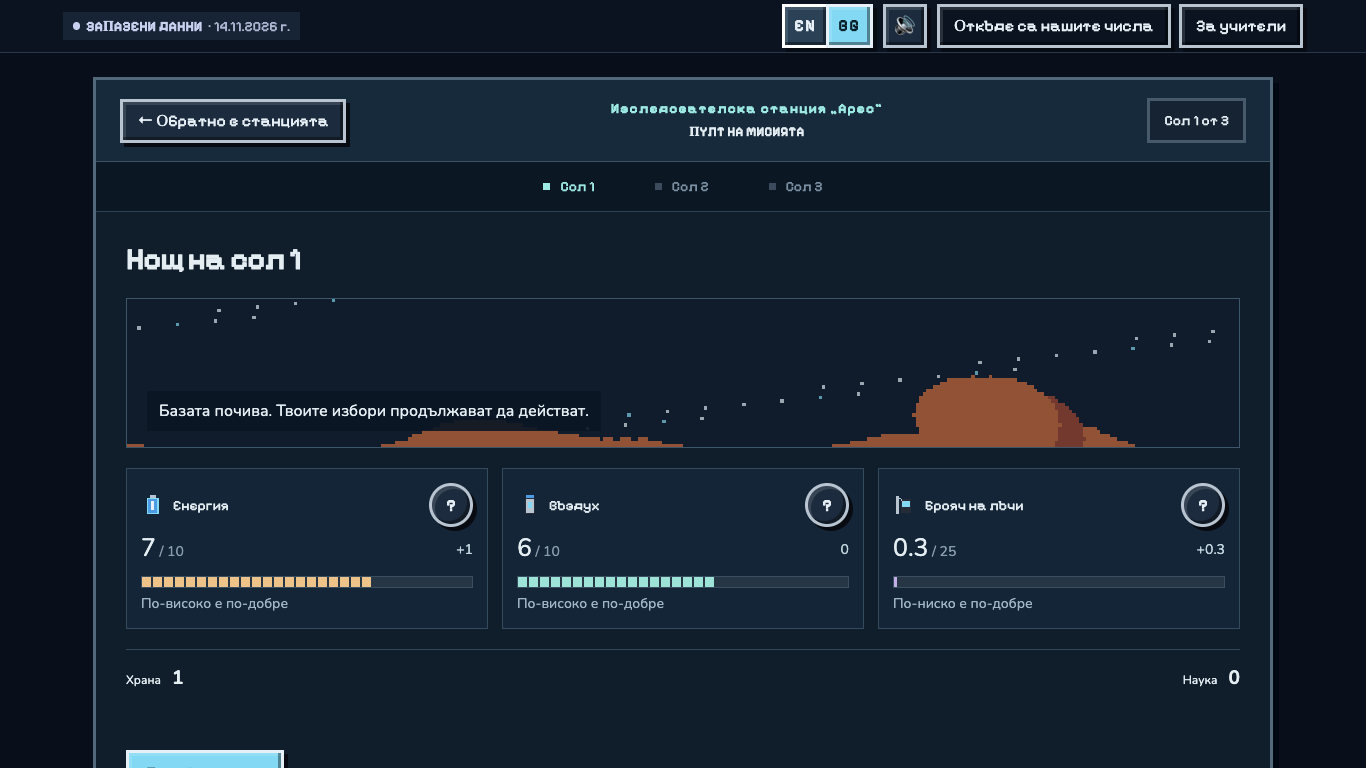
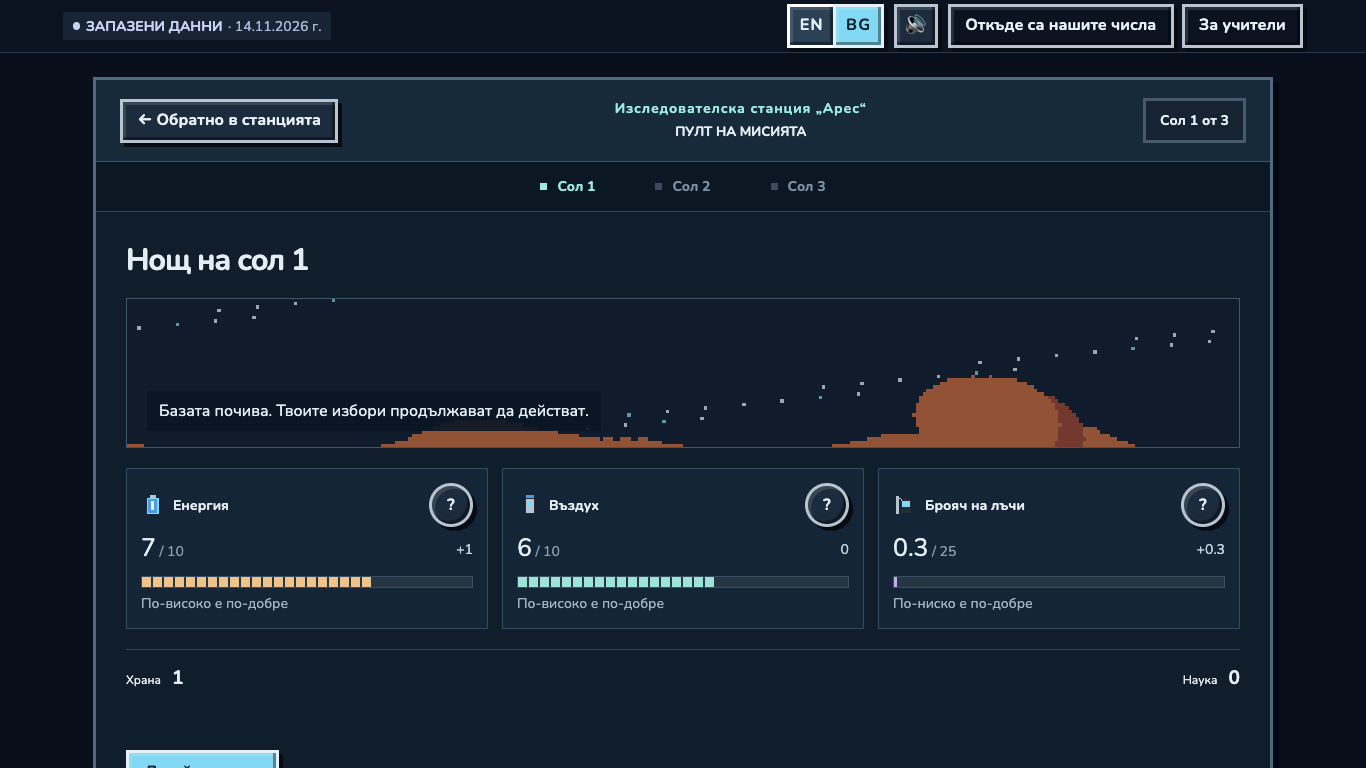
Bulgarian headings and buttons use bold Nunito (Pixelify Cyrillic is hard to read)

diff --git a/src/ui.css b/src/ui.css
@@ -120,3 +120,7 @@ button:focus-visible, summary:focus-visible, a:focus-visible, canvas:focus-visib
   .mission-status-bar nav button { flex: 1 1 auto; }
   .console-top > button, .station-header > button { flex: 1 1 auto; }
 }
+
+/* Pixelify Sans Cyrillic is hard to read at small sizes (kids misread "сол"): Bulgarian uses bold Nunito for headings and buttons. */
+:root:lang(bg) { --font-pixel: var(--font-body); }
+:root:lang(bg) :is(button, summary, h1, h2, h3, .eyebrow, .sol-tag, .step-label, .meter-label, .console-top b, .sol-navigation > span, .data-badge) { font-weight: 700; }
